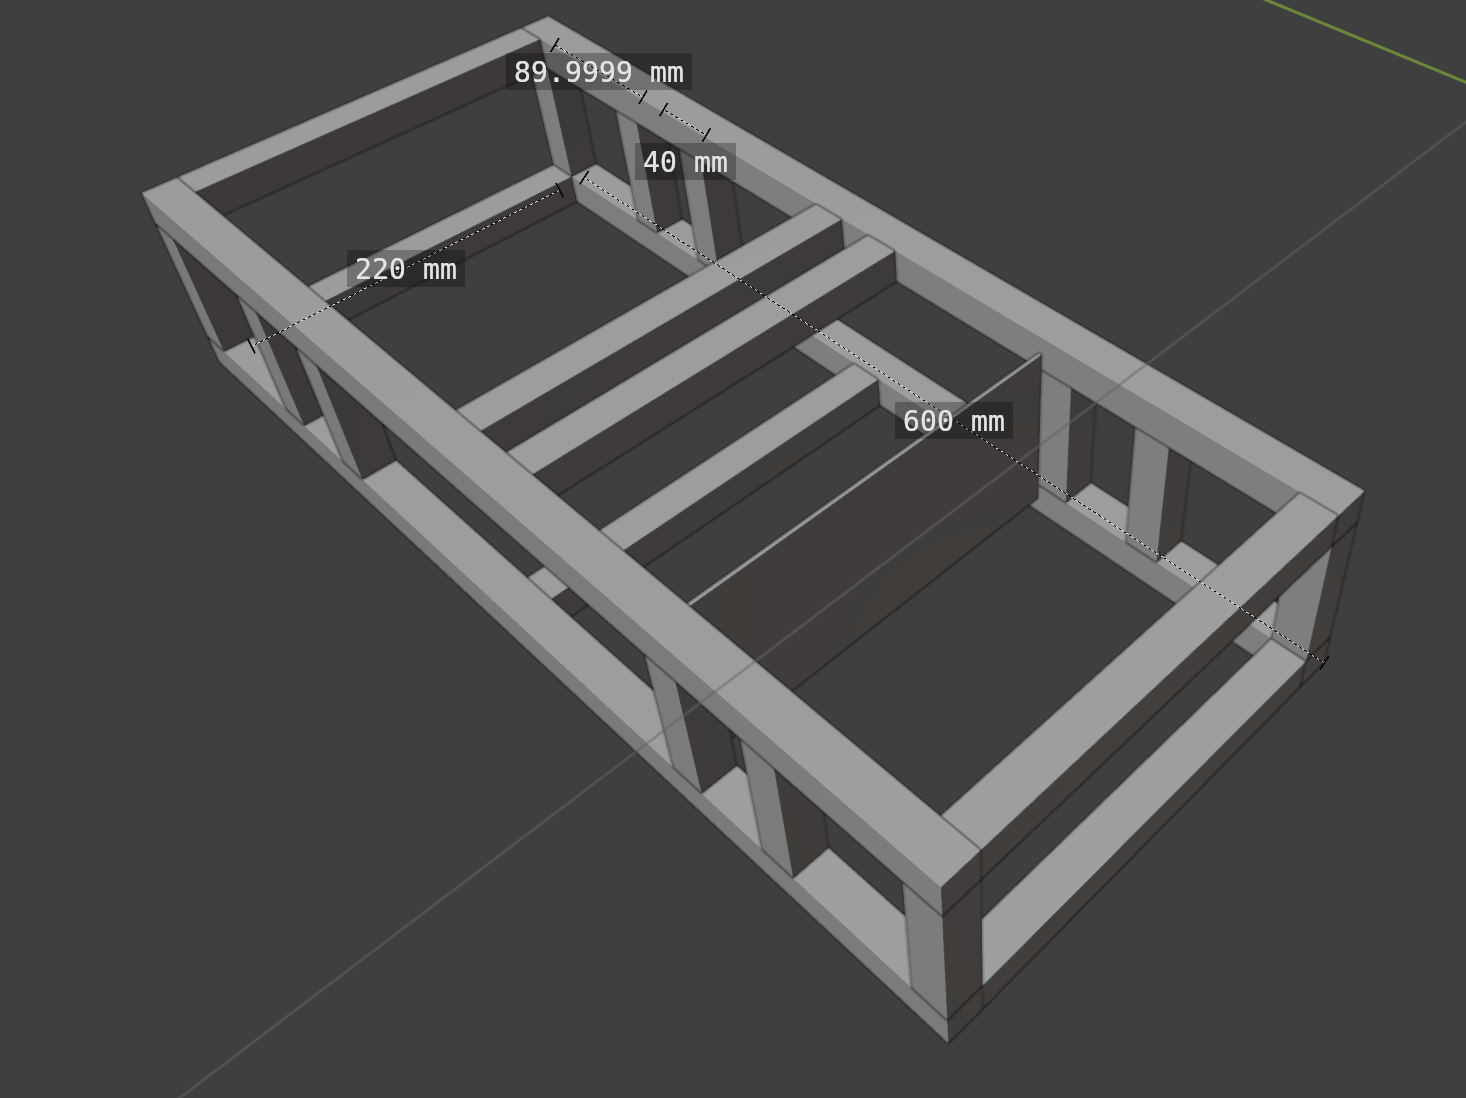
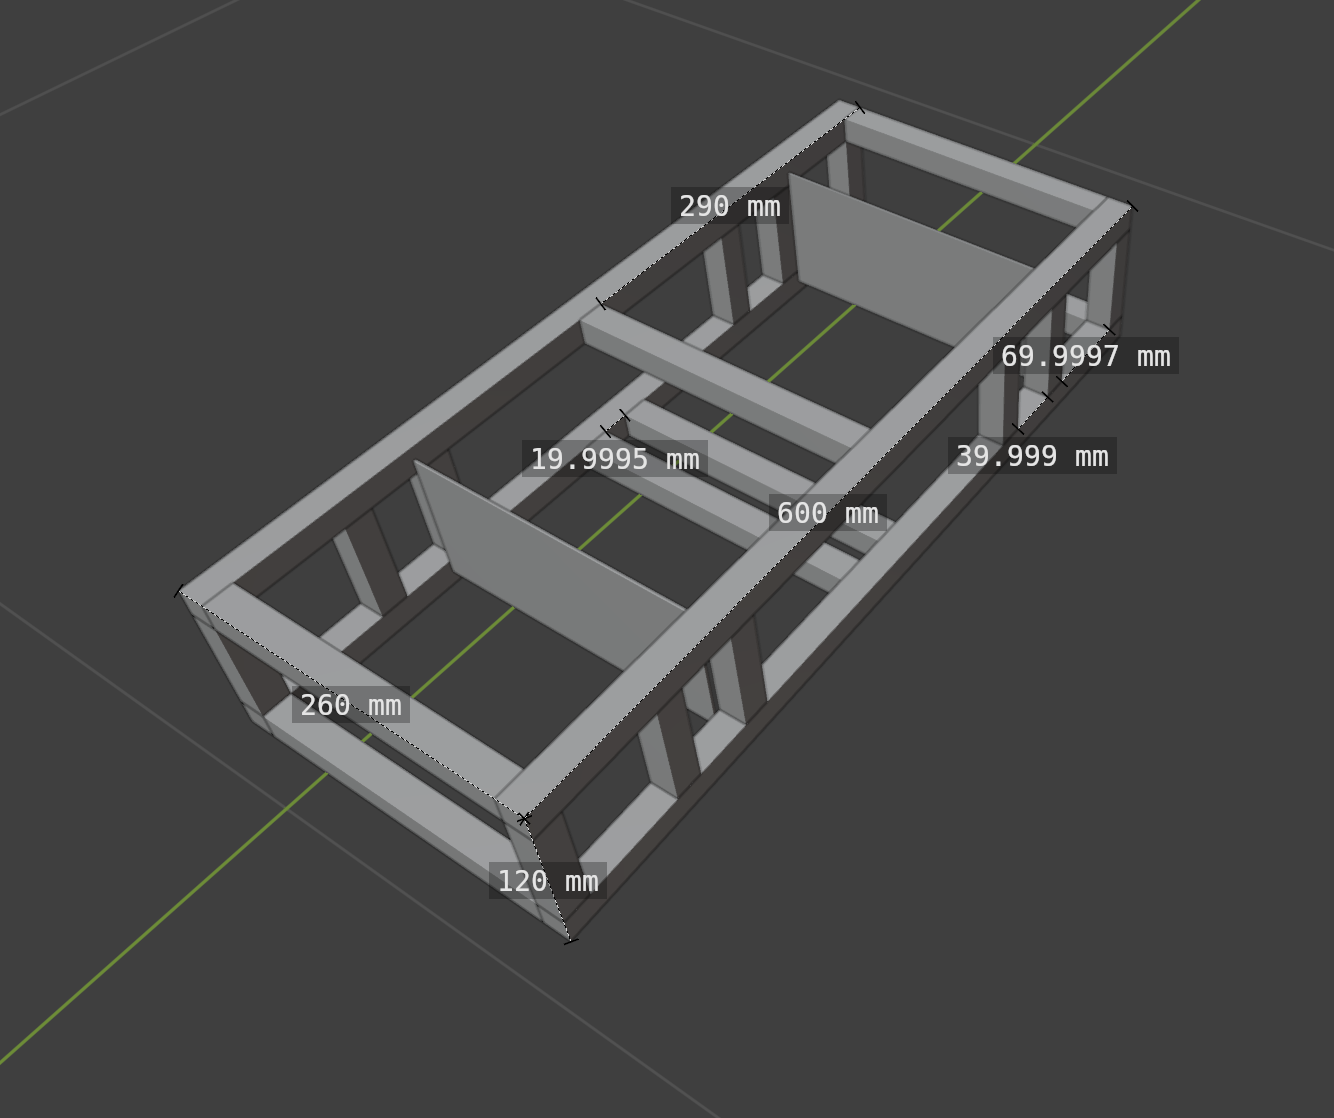
++ - kamangir/bolt#746

diff --git a/bluer_designs/__init__.py b/bluer_designs/__init__.py
@@ -1,1 +1,1 @@
-VERSION = "3.65.1"
+VERSION = "3.66.1"
